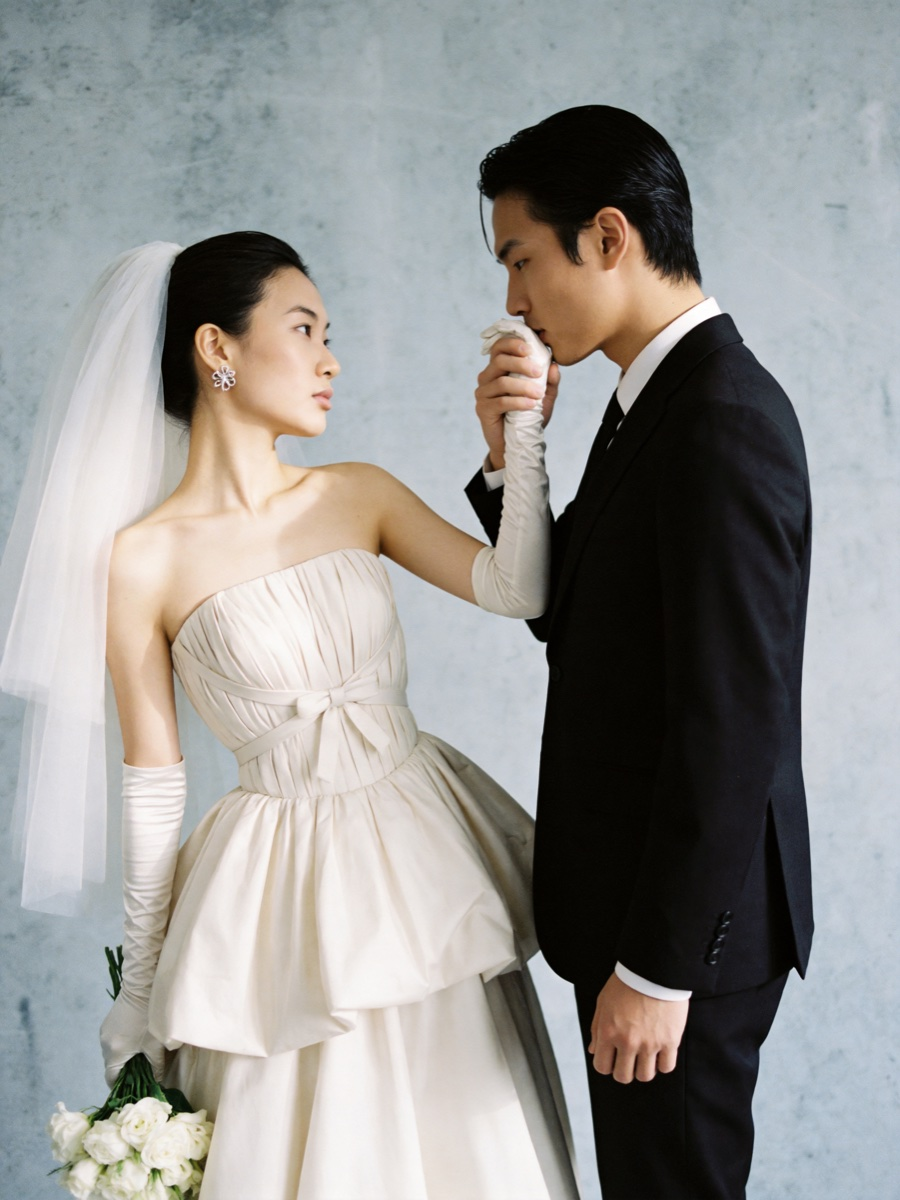
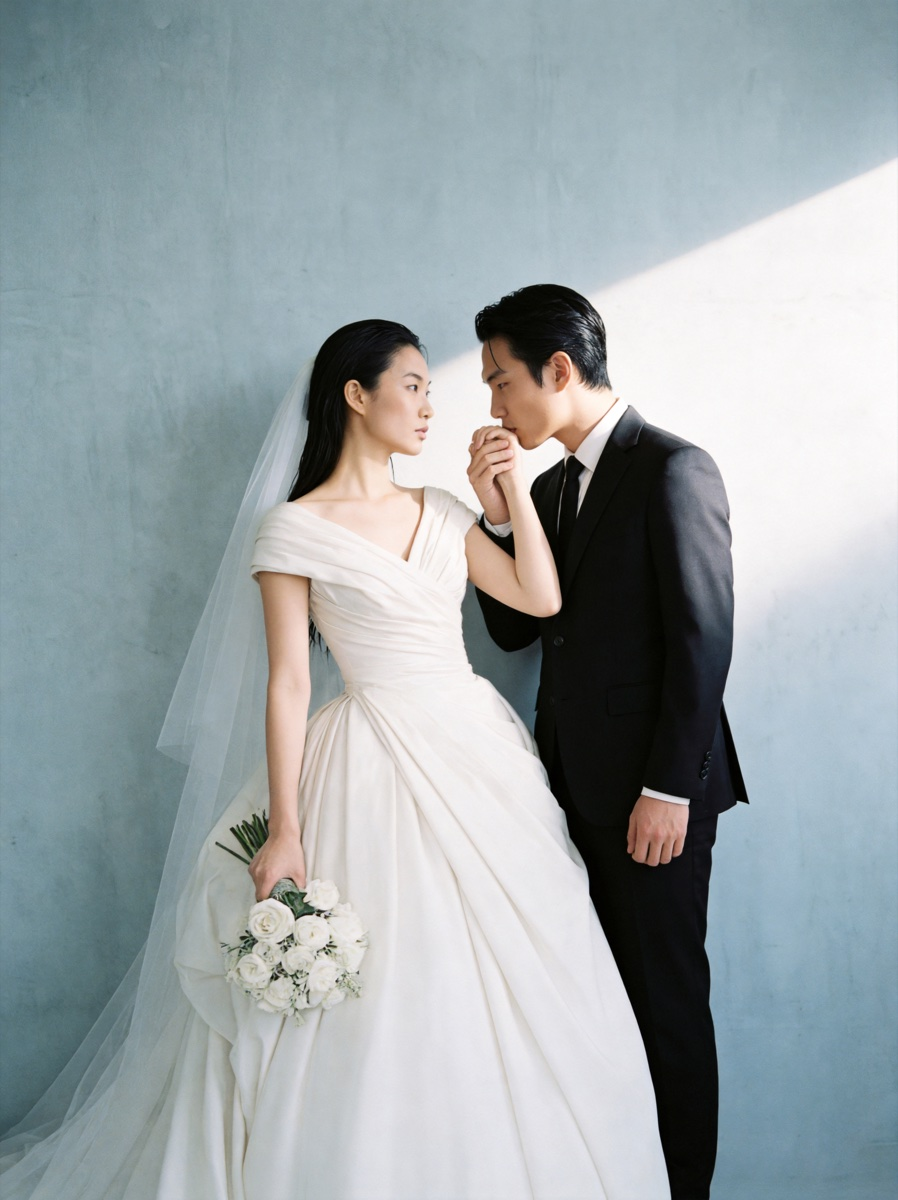
Update template 3: new cover, new prompt, new assists
- 封面：换成奶油白婚纱 + 灰蓝水泥墙的新版本（压缩到 1200 长边 q85）
- prompt：场景描述更贴新封面（冷灰蓝背景 + 奶油白婚纱 + 深黑西装）
- assists：从单张 .png 扩展到 3 张 .jpg —— 服饰参考 / 姿势线稿 / 背景纹理

diff --git a/src/data/prompts.ts b/src/data/prompts.ts
@@ -5,7 +5,7 @@ export const PROMPTS: Record<number, string> = {
 
   2: `背景：复古红色极简棚拍背景，满屏缤纷彩色纸屑从天飘落，营造鲜活热闹的庆祝氛围。人物姿势：双人并肩站立，男士身前倾、双臂舒展，女士轻挽男士手臂，两人同步低头鞠躬对镜头表示感谢。服装：女子穿抹胸压褶设计，收腰塑形，解构压褶蓬松超大裙摆,高级定制。发型：保持参考图一致，搭配珍珠皇冠发饰，耳朵一侧别着一朵白色鲜花。尽显复古贵气。头纱：短款蕾丝头纱；男子穿黑色西装 + 白衬衫 + 黑领结。复古红色色调仅由键光的漫反射光线照亮；整体光线非常柔和、低对比，暖调环境色晕染克制；白平衡约 4900K；呈现胶片质感、电影编辑风格调性，高光过渡丝滑；使用 24/70 焦段拍摄。fujipro400h 拍摄。全局光照亮人物。人物五官和发型保持一致。构图：人物居中。`,
 
-  3: `场景：室内水泥墙前结婚照。突出人物主体，无多余元素干扰。墙上无投影。人物姿势与互动：女子动作：正面站立，侧头，左手持白色花束，身体微向右侧的男子倾斜；右臂抬起，手肘弯曲，右手轻握男子的手，两人手贴在男子脸颊旁，头转向男子方向。男子动作：侧身站立，身体微向左侧的女子倾斜，亲吻女子的手背，与她对视；左手自然垂在身侧，姿态松弛温柔。人物服装：抹胸无袖设计，上身采用抽褶/打揽工艺，腰间配有同面料蝴蝶结，勾勒线条。腰部下方是蓬松的层叠式泡泡腰/荷叶边结构，面料为哑光质感的挺括缎/塔夫绸，褶皱自然，搭配同色系长款缎面手套，整体呈现复古胶片质感。搭配蓬松薄纱头纱与精致简单银饰结构花形耳饰；男子着黑西装、白衬衫与黑色领带，整体高级克制。色调仅由光的漫反射光线照亮；整体光线非常柔和、低对比，暖调环境色晕染克制；白平衡约 4900K；呈现胶片质感、电影编辑风格调性，高光过渡丝滑；使用 24/70 焦段拍摄。Kodak portra 400 拍摄。全局光照亮人物。构图，人物半身像拍摄。`,
+  3: `场景：室内水泥墙前结婚照。突出人物主体，无多余元素干扰。墙上无投影。人物姿势与互动：女子动作：正面站立，侧头，左手持白色花束，身体微向右侧的男子倾斜；右臂抬起，手肘弯曲，右手轻握男子的手，两人手贴在男子脸颊旁，头转向男子方向。男子动作：侧身站立，身体微向左侧的女子倾斜，亲吻女子的手背，与她对视；左手自然垂在身侧，姿态松弛温柔。人物服装：女子穿象牙白缎面婚纱，胸前与腰部带有自然褶皱结构，搭配轻薄长头纱；男子穿黑色修身西装、白衬衫与黑色领带。整体色彩采用"冷灰蓝背景 + 奶油白婚纱 + 深黑西装"的经典高级配色，低饱和且层次清晰。白色婚纱成为画面最大亮部，黑色西装稳定视觉重心，背景则作为柔和中性色衬托人物。色调仅由光的漫反射光线照亮；整体光线非常柔和、低对比，暖调环境色晕染克制；白平衡约 4900K；呈现胶片质感、电影编辑风格调性，高光过渡丝滑；使用 24/70 焦段拍摄。Kodak portra 400 拍摄。全局光照亮人物。构图，人物半身像拍摄。色调仅由键光的漫反射光线照亮；整体光线柔和、低对比，暖调环境色晕染克制；白平衡为中性暖调（约 4900K）；呈现胶片质感、电影编辑风格调性，高光过渡丝滑；使用 50mm 镜头拍摄，参数：f/5.6、ISO 100、1/125 秒，兼具富士 GFX 与徕卡美学质感。画面看不见任何灯光设备。半身像拍摄，一缕侧光照在背后墙面。`,
 
   4: `新人男的穿黑西装白色衬衫黑色蝴蝶结，女的化了自然的淡妆穿极简婚纱戴着花朵耳环。男生：位于画面左侧，身体微侧，双臂交叉抱于胸前，头部向右侧轻歪，姿态松弛又带点俏皮感。女生：位于画面右侧，双手环抱满天星花束于胸前，身体与男生同向，头部正对镜头，两人通过画面构图形成左右呼应，距离紧凑亲密，传递出自然的默契感。表情自然微笑，幸福的微笑。采用半身。克莱因蓝色背景，光线柔和铺陈，营造自然的塑形阴影；克莱因蓝色背景的柔和冷调反光，不破坏对比度，勾勒细腻边缘高光以区分主体与背景；背景无直射光，无投影。克莱因蓝色调仅由键光的漫反射光线照亮；整体光线柔和、低对比，暖调环境色晕染克制；白平衡为中性暖调（约 4900K）；呈现胶片质感、电影编辑风格调性，高光过渡丝滑；使用 50mm 镜头拍摄，参数：f/5.6、ISO 100、1/125 秒，兼具富士 GFX 与徕卡美学质感。画面看不见任何灯光设备。`,
 

diff --git a/src/data/templates.ts b/src/data/templates.ts
@@ -7,7 +7,7 @@ const p = (n: number) => PROMPTS[n]
 // 辅助参考图（来自 web_templates/辅助图/{n}/，仅参与生成、不展示）
 const ASSISTS: Record<number, string[]> = {
   2: ['/assets/2/1.jpg', '/assets/2/2.jpg', '/assets/2/3.jpg'],
-  3: ['/assets/3/1.png'],
+  3: ['/assets/3/1.jpg', '/assets/3/2.jpg', '/assets/3/3.jpg'],
   5: ['/assets/5/1.png'],
   7: ['/assets/7/1.jpg', '/assets/7/2.png', '/assets/7/3.png'],
   8: ['/assets/8/1.png'],